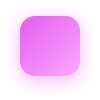
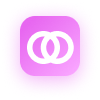
modified about-values section

Changed region(s): [[0.27, 0.3, 0.75, 0.66]]

diff --git a/about.html b/about.html
@@ -195,9 +195,28 @@
       text-align: center;
     }
 
-    .belief-card h3 {
-      color: #6D52FD;
+    .belief-card {
+      h6 {
+        font-family: Arial, Helvetica, sans-serif;
+        font-size: 1.125rem;
+        font-weight: bold;
+        color: #000;
+        text-align: start;
+        margin: 0 0 1rem;
+      }
+
+      p {
+        font-family: Arial, Helvetica, sans-serif;
+        font-size: 1rem;
+        color: #7471A6;
+        text-align: start;
+      }
     }
+
+    .values-icons {
+        width: 100px;
+        height: 100px;
+      }
 
     .team-card img {
       width: 100px;
@@ -359,17 +378,26 @@
     <h2><span class="first-line">The core beliefs that drive</span><br> <span class="second-line">everything we build and do</span></h2>
     <p class="desciption">From pioneering piso wifi to powering the future of connectivity<br> and digital services income opportunities. </p>
     <div class="belief-cards">
+      <!-- Card 1 -->
       <div class="belief-card">
-        <h3>Empowered Entrepreneurship</h3>
-        <p>Helping every hotspot owner transform connectivity into income through better tools.</p>
+        <img src="assets/icon 1.png" alt="Icon 1" class="img-fluid values-icons">
+        <h6>Empowered Entrepreneurship</h6>
+        <p>We believe in turning every hotspot into a sustainable source of income and impact. Nexifi equips modern entrepreneurs with powerful tools to go beyond selling internet—unlocking new digital opportunities with ease.
+        </p>
       </div>
+      <!-- Card 2 -->
       <div class="belief-card">
-        <h3>Future-Driven Innovation</h3>
-        <p>Smart integrations and scalable systems that stay ahead of the curve.</p>
+        <img src="assets/icon 2.png" alt="Icon 2" class="img-fluid values-icons">
+        <h6>Future-Driven Innovation</h6>
+        <p>We are committed to building technology that not only works today but thrives tomorrow. By constantly evolving our system with smart integrations and scalable infrastructure, Nexifi ensures our users stay ahead of the curve.
+        </p>
       </div>
+      <!-- Card 3 -->
       <div class="belief-card">
-        <h3>Community-Centered Connectivity</h3>
-        <p>Creating access and bridging digital divides through localized, inclusive tech.</p>
+        <img src="assets/icon 3.png" alt="Icon 3" class="img-fluid values-icons">
+        <h6>Community-Centered Connectivity</h6>
+        <p>Nexifi is built with people in mind—from remote barangays to bustling cities. We create accessible and inclusive tech that bridges digital gaps, fosters local growth, and connects communities to a  better future.
+        </p>
       </div>
     </div>
   </section>
